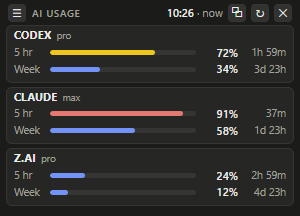
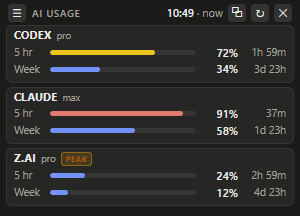
v1.5.0: peak/off-peak indicator for providers with published schedules (Z.ai)
Live-probed Claude and Z.ai payloads: neither API exposes peak state.
Zhipu/BigGame publish the Z.ai schedule (Mon-Fri 14:00-18:00 UTC+8,
off-peak at 50% credit cost) - computed in src/main/peak.js, adapted
from agent-usage-widget's MIT peak.js (credited). Badge on the card,
tooltip with flip time, [peak]/[off-peak: 50% credit] suffix in the
copy-for-agents summary. Claude gets no badge (nothing exposed to map).

Also: Codex CLI review of upstream UsageDeck PR #38 -> LGTM.

Changed region(s): [[0.18, 0.6944, 0.33, 0.7778], [0.72, 0.8611, 0.81, 0.9167], [0.6, 0.0278, 0.66, 0.0833]]

diff --git a/test/peak.test.js b/test/peak.test.js
@@ -1,0 +1,66 @@
+'use strict';
+
+const test = require('node:test');
+const assert = require('node:assert');
+const { getZaiPeakState } = require('../src/main/peak');
+const { shapeSnapshot } = require('../src/main/snapshotView');
+const { buildUsageSummary } = require('../src/renderer/summary');
+
+// Beijing wall-clock helper: epoch ms for Beijing Y-M-D H:M.
+const bj = (y, mo, d, h, mi) => Date.UTC(y, mo - 1, d, h, mi, 0) - 8 * 3600_000;
+
+test('peak: inside the Mon-Fri 14:00-18:00 Beijing window', () => {
+  const st = getZaiPeakState(bj(2026, 9, 22, 14, 0)); // Tuesday 14:00
+  assert.equal(st.mode, 'peak');
+  assert.equal(st.endsAt, new Date(bj(2026, 9, 22, 18, 0)).toISOString());
+  const late = getZaiPeakState(bj(2026, 9, 22, 17, 59));
+  assert.equal(late.mode, 'peak');
+});
+
+test('peak: boundaries are exclusive at 18:00 and before 14:00', () => {
+  assert.equal(getZaiPeakState(bj(2026, 9, 22, 18, 0)).mode, 'off-peak');
+  assert.equal(getZaiPeakState(bj(2026, 9, 22, 13, 59)).mode, 'off-peak');
+});
+
+test('peak: weekends are always off-peak', () => {
+  // 2026-09-26 is a Saturday, 15:00 Beijing (inside the weekday hours).
+  assert.equal(getZaiPeakState(bj(2026, 9, 26, 15, 0)).mode, 'off-peak');
+  assert.equal(getZaiPeakState(bj(2026, 9, 27, 15, 0)).mode, 'off-peak'); // Sunday
+});
+
+test('peak: nextStartAt points at the next weekday 14:00 Beijing', () => {
+  // Friday 19:00 Beijing -> next window is Monday 14:00.
+  const st = getZaiPeakState(bj(2026, 9, 25, 19, 0));
+  assert.equal(st.mode, 'off-peak');
+  assert.equal(st.nextStartAt, new Date(bj(2026, 9, 28, 14, 0)).toISOString());
+  // Tuesday 10:00 -> same day 14:00.
+  const same = getZaiPeakState(bj(2026, 9, 22, 10, 0));
+  assert.equal(same.nextStartAt, new Date(bj(2026, 9, 22, 14, 0)).toISOString());
+});
+
+test('peak: timezone-independent (same UTC instant, same state)', () => {
+  const t = bj(2026, 9, 22, 15, 0); // Tue 07:00 UTC
+  assert.equal(getZaiPeakState(t).mode, 'peak'); // machine tz irrelevant: pure epoch math
+});
+
+test('snapshotView: zai carries peak, others do not', () => {
+  const view = shapeSnapshot({}, { settings: { providers: { zai: true } }, now: bj(2026, 9, 22, 15, 0) });
+  const zai = view.providers.find((p) => p.id === 'zai');
+  const codex = view.providers.find((p) => p.id === 'codex');
+  assert.equal(zai.peak.mode, 'peak');
+  assert.equal(codex.peak, null);
+});
+
+test('summary: peak/off-peak suffix included for agents', () => {
+  const snap = { now: 0, providers: [
+    { id: 'zai', title: 'Z.ai', enabled: true, ok: true, plan: 'max', stale: false,
+      peak: { mode: 'off-peak', description: 'x' },
+      windows: { session: { label: '5 hr', usedPercent: 22, resetsAt: '2026-09-22T12:40:00Z' }, weekly: { label: 'Week', usedPercent: 55, resetsAt: '2026-09-25T15:00:00Z' } }, notes: [] },
+    { id: 'claude', title: 'Claude', enabled: true, ok: true, plan: null, stale: false, peak: null,
+      windows: { session: { label: '5 hr', usedPercent: 2, resetsAt: '2026-09-22T14:00:00Z' }, weekly: { label: 'Week', usedPercent: 84, resetsAt: '2026-09-24T15:00:00Z' } }, notes: [] },
+  ] };
+  const text = buildUsageSummary(snap, { now: Date.parse('2026-09-22T09:00:00Z') });
+  assert.ok(text.includes('[off-peak: 50% credit]'));
+  const lines = text.split('\n');
+  assert.ok(!lines.find((l) => l.startsWith('Claude')).includes('peak'));
+});

diff --git a/src/main/peak.js b/src/main/peak.js
@@ -1,0 +1,78 @@
+'use strict';
+
+/**
+ * Z.ai (GLM Coding Plan) peak/off-peak indicator.
+ *
+ * The quota API does not expose peak state, but Zhipu / BigModel publish
+ * the schedule: peak hours are Mon-Fri 14:00-18:00 (UTC+8), and off-peak
+ * model calls are charged at 50% of the base credit cost. We compute the
+ * state against the Beijing clock regardless of the machine's timezone
+ * (Beijing has no DST, so UTC+8 is a fixed offset year-round).
+ *
+ * Adapted from agent-usage-widget's src/peak.js (MIT, (c) chunnytechmate);
+ * see THIRD_PARTY_NOTICES.md.
+ */
+const OFFSET_MS = 8 * 3600_000;
+const WEEKDAYS = new Set([1, 2, 3, 4, 5]); // Mon..Fri (0=Sun..6=Sat)
+const START_MIN = 14 * 60; // 14:00 Beijing, inclusive
+const END_MIN = 18 * 60; // 18:00 Beijing, exclusive
+
+const PEAK_DESCRIPTION = 'Z.ai peak hours: Mon-Fri 14:00-18:00 Beijing (UTC+8)';
+const OFF_PEAK_DESCRIPTION = 'Z.ai off-peak: calls cost 50% credit. Peak hours: Mon-Fri 14:00-18:00 Beijing (UTC+8)';
+
+/** Beijing wall-clock parts for an instant (arithmetic shift, no tz db). */
+function beijingParts(ms) {
+  const b = new Date(ms + OFFSET_MS);
+  return {
+    day: b.getUTCDay(),
+    minutesOfDay: b.getUTCHours() * 60 + b.getUTCMinutes(),
+    y: b.getUTCFullYear(),
+    mo: b.getUTCMonth(),
+    d: b.getUTCDate(),
+  };
+}
+
+/** UTC instant for a Beijing wall-clock Y-M-D H:M. */
+function beijingInstant(y, mo, d, h, mi) {
+  return Date.UTC(y, mo, d, h, mi, 0) - OFFSET_MS;
+}
+
+function toIso(ms) {
+  return Number.isFinite(ms) ? new Date(ms).toISOString() : null;
+}
+
+/**
+ * Peak state for a moment in time. Pure; `now` is epoch ms.
+ * Returns { mode: 'peak'|'off-peak', endsAt, nextStartAt, description }.
+ */
+function getZaiPeakState(now = Date.now()) {
+  if (!Number.isFinite(now)) now = Date.now();
+  const p = beijingParts(now);
+  const inPeak = WEEKDAYS.has(p.day) && p.minutesOfDay >= START_MIN && p.minutesOfDay < END_MIN;
+  if (inPeak) {
+    return {
+      mode: 'peak',
+      endsAt: toIso(beijingInstant(p.y, p.mo, p.d, 18, 0)),
+      nextStartAt: null,
+      description: PEAK_DESCRIPTION,
+    };
+  }
+  // Scan forward (up to a week) for the next Mon-Fri 14:00 strictly after
+  // `now` - handles "already past 14:00 today" and weekends.
+  for (let add = 0; add <= 7; add++) {
+    const ms = beijingInstant(p.y, p.mo, p.d + add, 14, 0);
+    // 14:00 Beijing == 06:00 UTC the same calendar day, so the UTC weekday
+    // of the instant is the Beijing weekday of the window.
+    if (WEEKDAYS.has(new Date(ms).getUTCDay()) && ms > now) {
+      return {
+        mode: 'off-peak',
+        endsAt: null,
+        nextStartAt: toIso(ms),
+        description: OFF_PEAK_DESCRIPTION,
+      };
+    }
+  }
+  return { mode: 'off-peak', endsAt: null, nextStartAt: null, description: OFF_PEAK_DESCRIPTION };
+}
+
+module.exports = { getZaiPeakState, PEAK_DESCRIPTION, OFF_PEAK_DESCRIPTION };

diff --git a/src/main/snapshotView.js b/src/main/snapshotView.js
@@ -7,9 +7,14 @@
  */
 const { providerHasSpike, describeAlert } = require('./spikes');
 const { formatAge } = require('./format');
+const { getZaiPeakState } = require('./peak');
 
 const TITLES = { codex: 'Codex', claude: 'Claude', zai: 'Z.ai', grok: 'Grok', gemini: 'Gemini', openrouter: 'OpenRouter' };
 const ORDER = ['codex', 'claude', 'zai', 'grok', 'gemini', 'openrouter'];
+
+/** Providers with a known published peak/off-peak schedule. Extending
+ *  peak support to another provider is one entry here + an adapter. */
+const PEAK_STATES = { zai: getZaiPeakState };
 
 function describeActiveAlert(activeAlerts, providerId) {
   for (const [key, v] of Object.entries(activeAlerts || {})) {
@@ -24,11 +29,14 @@ function describeActiveAlert(activeAlerts, providerId) {
  * and cached-ok-but-stale. Must never throw.
  */
 function shapeProvider(id, snap, { enabled, activeAlerts, now }) {
+  // Peak/off-peak comes from published schedules, not the fetch, so it is
+  // attached in every provider state (fresh boot, error, disabled).
+  const peak = PEAK_STATES[id] ? PEAK_STATES[id](now) : null;
   if (!snap) {
     return {
       id, title: TITLES[id], enabled: !!enabled, ok: false,
       error: { code: 'DISABLED', message: 'Provider disabled in Settings' },
-      windows: { session: null, weekly: null }, extras: [], notes: [], spike: null,
+      windows: { session: null, weekly: null }, extras: [], notes: [], spike: null, peak,
     };
   }
   const windows = Array.isArray(snap.windows) ? snap.windows : [];
@@ -57,6 +65,7 @@ function shapeProvider(id, snap, { enabled, activeAlerts, now }) {
     notes: Array.isArray(snap.notes) ? snap.notes : [],
     windows: byKind,
     extras: windows.filter((x) => x && x.kind === 'other'),
+    peak,
     spike: providerHasSpike(activeAlerts, id, now)
       ? { description: describeActiveAlert(activeAlerts, id) }
       : null,

diff --git a/src/renderer/renderer.js b/src/renderer/renderer.js
@@ -127,6 +127,21 @@
       plan.textContent = p.plan;
       head.appendChild(plan);
     }
+    if (p.peak) {
+      const hour24 = !settings || settings.clock24 !== false;
+      const fmt = new Intl.DateTimeFormat('en-US', hour24
+        ? { hour: '2-digit', minute: '2-digit', hourCycle: 'h23' }
+        : { hour: '2-digit', minute: '2-digit', hour12: true });
+      const badge = document.createElement('span');
+      const on = p.peak.mode === 'peak';
+      badge.className = `peak-badge ${on ? 'on' : 'off'}`;
+      badge.textContent = on ? 'PEAK' : 'OFF-PEAK';
+      let when = '';
+      if (on && p.peak.endsAt) when = ` \u00b7 ends ${fmt.format(new Date(p.peak.endsAt))}`;
+      else if (!on && p.peak.nextStartAt) when = ` \u00b7 starts ${fmt.format(new Date(p.peak.nextStartAt))}`;
+      badge.title = p.peak.description + when;
+      head.appendChild(badge);
+    }
     const spacer = document.createElement('span');
     spacer.className = 'spacer';
     head.appendChild(spacer);

diff --git a/src/main/main.js b/src/main/main.js
@@ -559,6 +559,7 @@ async function runSettingsSelftest() {
         cardCount: document.getElementById('cards').children.length,
         appZoom: document.getElementById('app').style.zoom || 'unset',
         fitDetail: document.getElementById('app').dataset.fit || 'none',
+        peakBadge: !!document.querySelector('.peak-badge'),
         copyOk,
         copyRestored,
         copyTwiceOk,
@@ -571,7 +572,7 @@ async function runSettingsSelftest() {
     log.info('selftest', JSON.stringify(result));
     const ok = result.waited && result.menuOpened && result.opened && result.closedAfterDone
       && result.displayAfterDone === 'none' && result.copyOk && result.copyRestored
-      && result.copyTwiceOk && result.menuCopyOk && result.toastPresent;
+      && result.copyTwiceOk && result.menuCopyOk && result.toastPresent && result.peakBadge;
     log.info('selftest', ok ? 'PASS' : 'FAIL');
     app.exit(ok ? 0 : 1);
   } catch (cause) {

diff --git a/src/renderer/styles.css b/src/renderer/styles.css
@@ -190,6 +190,18 @@ html, body {
 }
 .provider-name { font-size: 10.5px; font-weight: 700; letter-spacing: 0.05em; }
 .provider-plan { color: var(--muted); font-size: 9.5px; }
+
+.peak-badge {
+  font-size: 8px;
+  font-weight: 700;
+  letter-spacing: 0.4px;
+  padding: 1px 4px;
+  border-radius: 3px;
+  line-height: 1.3;
+  cursor: help;
+}
+.peak-badge.on { color: #b45309; background: rgba(245, 158, 11, 0.16); border: 1px solid rgba(245, 158, 11, 0.45); }
+.peak-badge.off { color: #0f766e; background: rgba(20, 184, 166, 0.14); border: 1px solid rgba(20, 184, 166, 0.4); }
 .card-head .spacer { flex: 1; }
 .card-head-right { display: flex; gap: 4px; align-items: center; }
 

diff --git a/src/renderer/summary.js b/src/renderer/summary.js
@@ -57,6 +57,7 @@
       if (!parts.length) parts.push('no quota windows reported');
     }
     let s = `${name}: ${parts.join('; ')}`;
+    if (p.peak) s += p.peak.mode === 'peak' ? ' [peak]' : ' [off-peak: 50% credit]';
     if (p.stale) s += ' [stale]';
     return s;
   }

diff --git a/THIRD_PARTY_NOTICES.md b/THIRD_PARTY_NOTICES.md
@@ -8,18 +8,23 @@ file credits the origin.
 
 ## Adapted mechanisms
 
-- **agent-usage-widget** (MIT, (c) chunnytechmate): the Codex CLI
+- **agent-usage-widget** (MIT, declared in its package.json, (c) chunnytechmate,
+  https://github.com/chunnytechmate/agent-usage-widget): the Codex CLI
   `app-server` JSON-RPC handshake used in `src/main/providers/codex.js`
   (initialize -> initialized -> `account/rateLimits/read`) was adapted from
   its `src/gpt.js`. The idea of reading the Claude OAuth usage endpoint by
   reusing the Claude Code login (its `src/usage.js`) informed
-  `src/main/providers/claude.js`.
-- **UsageDeck** (MIT, (c) lamchun1110, deviffyy): the Z.ai Coding Plan quota
+  `src/main/providers/claude.js`. The Z.ai peak-hours schedule and
+  Beijing-clock arithmetic in `src/main/peak.js` were adapted from its
+  `src/peak.js` (schedule as published by Zhipu / BigModel).
+- **UsageDeck** (MIT, (c) lamchun1110, deviffyy,
+  https://github.com/lamchun1110/UsageDeck): the Z.ai Coding Plan quota
   schema classification (unit codes 3/4/5/6, session < 24h, web-search
   `TIME_LIMIT` entries) in `src/main/providers/zai.js` follows the mapping
   documented in its `src-tauri/src/providers/zai/mapper.rs`, and its
   normalized `QuotaWindow` model shaped our provider interface.
-- **codex-usage-monitor** (MIT, (c) upstream-ray): consulted as a native
+- **codex-usage-monitor** (MIT, (c) Craig Constable,
+  https://github.com/upstream-ray/codex-usage-monitor): consulted as a native
   Windows/Rust reference for Codex/Claude quota collection and tray
   behavior. No code was reused.
 

diff --git a/FINAL_REPORT.md b/FINAL_REPORT.md
@@ -289,3 +289,23 @@ clients and synthetic fixtures:
    stores a key (with confirmation) in the running app.
 5. The `!` spike badge was tested with deterministic fixtures; live-provider
    timing behavior may reveal tuning opportunities for the defaults.
+
+## v1.5.0 - peak/off-peak indicator
+
+Research first: live-probed the Claude OAuth usage and Z.ai quota payloads
+(sanitized; no tokens printed). Claude exposes no peak fields - skipped
+honestly. Z.ai's API exposes none either, but Zhipu/BigModel publish the
+schedule: peak Mon-Fri 14:00-18:00 Beijing (UTC+8), off-peak calls cost
+50% of base credit. New src/main/peak.js (adapted from agent-usage-widget
+src/peak.js, MIT - credited in THIRD_PARTY_NOTICES.md) computes the state
+against the Beijing clock (pure epoch math, timezone-independent, no tz
+db). snapshotView attaches `peak` via a PEAK_STATES registry (extending to
+another provider is one entry); UI shows an amber PEAK / teal OFF-PEAK
+badge on the Z.ai card with tooltip incl. when it flips; the copy-for-
+agents summary appends [peak] / [off-peak: 50% credit]. Also: Codex CLI
+(gpt-6-astra) reviewed upstream PR lamchun1110/UsageDeck#38 - LGTM on the
+true diff (an initial 'scope' finding was an artifact of a stale local
+main used to build the review diff). 119/119 tests (7 new: boundaries,
+weekends, Friday->Monday next-start, snapshot passthrough, summary
+suffix), lint clean, E2E PASS (peakBadge:true), screenshots regenerated,
+live instance swapped to v1.5.0.

diff --git a/README.md b/README.md
@@ -74,10 +74,18 @@ Always-on-top, Launch-at-login, Settings, and Quit.
 visible. Enabling more providers squeezes them into the window; dragging
 the window larger scales everything up (0.5x - 1.8x).
 
-**Copy for agents:** the `⭘`-style header button (between the clock and
+**Copy for agents:** the header button (between the clock and
 refresh) copies a compact plain-text usage summary to the clipboard -
-per-provider windows, percentages, and reset times - ready to paste into
-an agent prompt for routing decisions.
+per-provider windows, percentages, reset times, and peak/off-peak state
+where a provider has one - ready to paste into an agent prompt for routing
+decisions.
+
+**Peak/off-peak:** providers with a published peak schedule show a badge
+on their card. Currently Z.ai (GLM Coding Plan): peak hours are Mon-Fri
+14:00-18:00 Beijing time (UTC+8) and off-peak calls cost 50% of the base
+credit cost; the badge shows which mode is active and when it flips. The
+Claude usage API does not expose peak state, so no badge is shown there
+rather than guessing.
 
 ## What each provider needs
 
